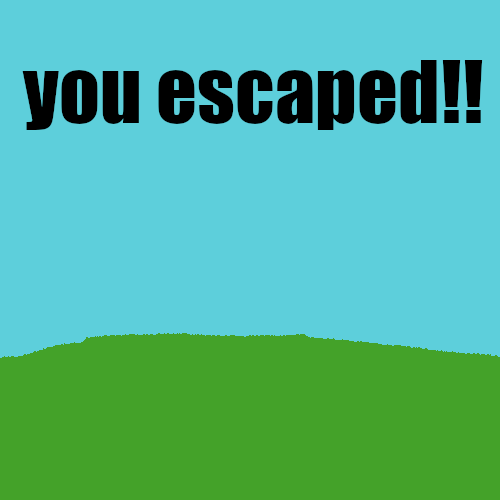
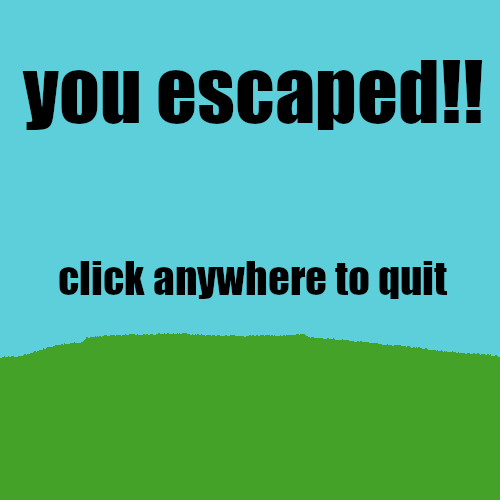
added intro and separated the setup from main.py

Changed region(s): [[0.12, 0.51, 0.9, 0.6]]

diff --git a/game.py b/game.py
@@ -1,148 +1,13 @@
 import pygame
 pygame.init()
 
-import Classes_and_functions
-from Classes_and_functions import room_list
-from Classes_and_functions import inventory
-from Classes_and_functions import bottom_text
+from game_setup import play_game
 
 pygame.mixer.init()
 pygame.mixer.music.load('labyrinth_escape.ogg')
-pygame.mixer.music.set_volume(0.5) # Ears will no longer bleed when the music starts
+pygame.mixer.music.set_volume(0.3) # Ears will no longer bleed when the music starts
 pygame.mixer.music.play(-1)  # Loops the music indefinitely
 
 
 
-screen = pygame.display.set_mode((500, 650))
-clock = pygame.time.Clock()
-running = True
-
-font = pygame.font.SysFont("Arial", 48)
-
-##Add Rooms##
-room1A = Classes_and_functions.Room('room1A','images/Room_1-A/room_1-A.png')
-room1B = Classes_and_functions.Room('room1B','images/Room_1-b/background.png')
-room2 = Classes_and_functions.Room('room2','images/Room 2/room_2.PNG')
-room3 = Classes_and_functions.Room('room3','images/room3/room_3.png')
-victory_room = Classes_and_functions.Room('victory','images/victory.png')
-
-##Add Items##
-basic_key = Classes_and_functions.Item('images/key.png','key')
-screwdriver = Classes_and_functions.Item('images/screwdriver.png', 'screwdriver')
-
-##Components of room1A##
-arrow_right_1A = Classes_and_functions.Door((464,15),'images/Room_1-A/arrowright.png','images/Room_1-A/arrowright.png',room1B,True)
-door1_1A = Classes_and_functions.Door((63,126),'images/Room_1-A/door1closed.png','images/Room_1-A/door1open.png',room2)
-door2_1A = Classes_and_functions.Door((466,168),'images/Room_1-A/door2closed.png','images/Room_1-A/door2open.png',victory_room)
-key_1A = Classes_and_functions.ClickableItem(basic_key,(220,303),'images/Room_1-A/key.png')
-lock_door1_1A = Classes_and_functions.ItemLock(basic_key,(144,276),(165,294),door1_1A)
-##Add Components##
-room1A.add_door(arrow_right_1A)
-room1A.add_door(door1_1A)
-room1A.add_door(door2_1A)
-room1A.add_object(key_1A)
-room1A.add_nonrender(lock_door1_1A)
-
-##Components of room1B##
-arrow_left_1B = Classes_and_functions.Door((0,18),'images/Room_1-B/arrow_away.PNG','images/Room_1-B/arrow_away.PNG',room1A,True)
-door_1B = Classes_and_functions.Door((0,161),'images/Room_1-B/door_closed.PNG','images/Room_1-B/door_open.PNG',victory_room)
-screwdriver_1B = Classes_and_functions.ClickableItem(screwdriver,(328,438),'images/Room_1-B/screwdriver.PNG')
-lock_1B = Classes_and_functions.NumberLock('images/Room_1-B/Escape Room lock.png',(76,285),(104,336),door_1B)
-toolbox_1B = Classes_and_functions.ClickableObject('a toolbox', 'Nothing looks useful.', (350, 375), (440, 460))
-##Add digits to lock##
-lock_1B.add_digit(5,(120,305),(105,265),(170,400))
-lock_1B.add_digit(9,(205,305),(180,265),(250,400))
-lock_1B.add_digit(6,(285,305),(260,265),(330,400))
-lock_1B.add_digit(3,(365,305),(335,265),(410,400))
-##Add Components##
-room1B.add_door(arrow_left_1B)
-room1B.add_door(door_1B)
-room1B.add_object(screwdriver_1B)
-room1B.add_lock(lock_1B)
-room1B.add_nonrender(toolbox_1B)
-
-##Components of room2##
-door1_2 = Classes_and_functions.Door((0,119),'images/Room 2/door1closed.PNG','images/Room 2/door1open.PNG',room3)
-door2_2 = Classes_and_functions.Door((419,130),'images/Room 2/door2open.PNG','images/Room 2/door2open.PNG',room1A,True)
-lock_2 = Classes_and_functions.NumberLock('images/Room 2/lock_enlarged.png',(85,290),(117,346),door1_2)
-greendice = Classes_and_functions.ClickableObject('a green die', 'It reads four',(174,311),(193,337))
-bluedice = Classes_and_functions.ClickableObject('a blue die', 'It reads six',(260,325),(279,350))
-purpledice = Classes_and_functions.ClickableObject('a purple die', 'It reads one',(339,264),(358,289))
-orangedice = Classes_and_functions.ClickableObject('a orange die', 'It reads three',(269,421),(288,446))
-##Add digits to lock##
-lock_2.add_digit(6,(125,310),(105,265),(170,400),6)
-lock_2.add_digit(3,(205,310),(180,265),(250,400),6)
-lock_2.add_digit(1,(285,310),(260,265),(330,400),6)
-lock_2.add_digit(4,(360,310),(335,265),(410,400),6)
-##Add Components##
-room2.add_door(door1_2)
-room2.add_door(door2_2)
-room2.add_lock(lock_2)
-room2.add_nonrender(greendice)
-room2.add_nonrender(bluedice)
-room2.add_nonrender(purpledice)
-room2.add_nonrender(orangedice)
-
-#Components of room3##
-arrow_down_3 = Classes_and_functions.Door((13,455),'images/room3/arrow_down.png','images/room3/arrow_down.png',room2,True)
-vent_3 = Classes_and_functions.Door((110,244),'images/room3/vent_cover.PNG','images/room3/empty_vent.png',room3, click_message='You can\'t open the vent right now')
-shelf_3 = Classes_and_functions.ClickableObject('a shelf','It\'s empty',(260,0),(500,440))
-##code_note_3 = Classes_and_functions.ClickableObject('a note','it reads \"5 9 6 3\"',(130,317),(194,355))
-vent_lock_check_3 = Classes_and_functions.ItemLock(screwdriver,(110,244),(238,391),vent_3)
-##Add Components##
-room3.add_door(arrow_down_3)
-room3.add_door(vent_3)
-room3.add_nonrender(shelf_3)
-room3.add_nonrender(vent_lock_check_3)
-
-
-##Add rooms to room list##
-room_list.add_room(victory_room)
-room_list.add_room(room1A)
-room_list.add_room(room1B)
-room_list.add_room(room2)
-room_list.add_room(room3)
-##Set starting room##
-room_list.change_room(room1A)
-
-
-while running:
-    
-    for event in pygame.event.get():
-        if event.type == pygame.QUIT:
-            running = False
-
-        #detects if mouse is hovering over lock when clicking, then shows lock, if it clicks the lock while displaying it, it hides the lock
-        if event.type == pygame.MOUSEBUTTONDOWN:
-            if event.button == 1:
-                room_list.click(event.pos)
-
-    mouse_position = pygame.mouse.get_pos()
-    
-    screen.fill("black") #wipes previous screen
-
-    #render game here
-    screen.blit(pygame.image.load("images/inventory.png").convert(), (0,500))
-    inventory.render_items()
-    bottom_text.render()
-
-    room_list.render()
-
-    room_list.cursor_render(mouse_position)
-
-
-
-
-
-
-    #----Displays Mouse Position----
-    ##MOUSE_POS_DEBUG = font.render(str(mouse_position), True, (0, 0, 0))
-    ##screen.blit(MOUSE_POS_DEBUG, (0,0))
-    #---Comment Out When Unneeded---
-
-
-    pygame.display.flip() #shows screen
-
-    clock.tick(60) #sets FPS to 60
-
-pygame.quit()
+play_game()

diff --git a/game_setup.py b/game_setup.py
@@ -1,0 +1,131 @@
+import pygame
+import Classes_and_functions
+from Classes_and_functions import room_list
+from Classes_and_functions import inventory
+from Classes_and_functions import bottom_text
+screen = pygame.display.set_mode((500, 650))
+clock = pygame.time.Clock()
+font = pygame.font.SysFont("Arial", 48)
+
+##Add Rooms##
+room1A = Classes_and_functions.Room('room1A','images/Room_1-A/room_1-A.png')
+room1B = Classes_and_functions.Room('room1B','images/Room_1-b/background.png')
+room2 = Classes_and_functions.Room('room2','images/Room 2/room_2.PNG')
+room3 = Classes_and_functions.Room('room3','images/room3/room_3.png')
+victory_room = Classes_and_functions.Room('victory','images/victory.png')
+
+intro_room = Classes_and_functions.Room('intro','images/intro.png')
+intro_door = Classes_and_functions.Door((0,0),'images/intro.png','images/intro.png',room1A,True)
+intro_room.add_door(intro_door)
+
+##Add Items##
+basic_key = Classes_and_functions.Item('images/key.png','key')
+screwdriver = Classes_and_functions.Item('images/screwdriver.png', 'screwdriver')
+
+##Components of room1A##
+arrow_right_1A = Classes_and_functions.Door((464,15),'images/Room_1-A/arrowright.png','images/Room_1-A/arrowright.png',room1B,True)
+door1_1A = Classes_and_functions.Door((63,126),'images/Room_1-A/door1closed.png','images/Room_1-A/door1open.png',room2)
+door2_1A = Classes_and_functions.Door((466,168),'images/Room_1-A/door2closed.png','images/Room_1-A/door2open.png',victory_room)
+key_1A = Classes_and_functions.ClickableItem(basic_key,(220,303),'images/Room_1-A/key.png')
+lock_door1_1A = Classes_and_functions.ItemLock(basic_key,(144,276),(165,294),door1_1A)
+##Add Components##
+room1A.add_door(arrow_right_1A)
+room1A.add_door(door1_1A)
+room1A.add_door(door2_1A)
+room1A.add_object(key_1A)
+room1A.add_nonrender(lock_door1_1A)
+
+##Components of room1B##
+arrow_left_1B = Classes_and_functions.Door((0,18),'images/Room_1-B/arrow_away.PNG','images/Room_1-B/arrow_away.PNG',room1A,True)
+door_1B = Classes_and_functions.Door((0,161),'images/Room_1-B/door_closed.PNG','images/Room_1-B/door_open.PNG',victory_room)
+screwdriver_1B = Classes_and_functions.ClickableItem(screwdriver,(328,438),'images/Room_1-B/screwdriver.PNG')
+lock_1B = Classes_and_functions.NumberLock('images/Room_1-B/Escape Room lock.png',(76,285),(104,336),door_1B)
+toolbox_1B = Classes_and_functions.ClickableObject('a toolbox', 'Nothing looks useful.', (350, 375), (440, 460))
+##Add digits to lock##
+lock_1B.add_digit(5,(120,305),(105,265),(170,400))
+lock_1B.add_digit(9,(205,305),(180,265),(250,400))
+lock_1B.add_digit(6,(285,305),(260,265),(330,400))
+lock_1B.add_digit(3,(365,305),(335,265),(410,400))
+##Add Components##
+room1B.add_door(arrow_left_1B)
+room1B.add_door(door_1B)
+room1B.add_object(screwdriver_1B)
+room1B.add_lock(lock_1B)
+room1B.add_nonrender(toolbox_1B)
+
+##Components of room2##
+door1_2 = Classes_and_functions.Door((0,119),'images/Room 2/door1closed.PNG','images/Room 2/door1open.PNG',room3)
+door2_2 = Classes_and_functions.Door((419,130),'images/Room 2/door2open.PNG','images/Room 2/door2open.PNG',room1A,True)
+lock_2 = Classes_and_functions.NumberLock('images/Room 2/lock_enlarged.png',(85,290),(117,346),door1_2)
+greendice = Classes_and_functions.ClickableObject('a green die', 'It reads four',(174,311),(193,337))
+bluedice = Classes_and_functions.ClickableObject('a blue die', 'It reads six',(260,325),(279,350))
+purpledice = Classes_and_functions.ClickableObject('a purple die', 'It reads one',(339,264),(358,289))
+orangedice = Classes_and_functions.ClickableObject('a orange die', 'It reads three',(269,421),(288,446))
+##Add digits to lock##
+lock_2.add_digit(6,(125,310),(105,265),(170,400),6)
+lock_2.add_digit(3,(205,310),(180,265),(250,400),6)
+lock_2.add_digit(1,(285,310),(260,265),(330,400),6)
+lock_2.add_digit(4,(360,310),(335,265),(410,400),6)
+##Add Components##
+room2.add_door(door1_2)
+room2.add_door(door2_2)
+room2.add_lock(lock_2)
+room2.add_nonrender(greendice)
+room2.add_nonrender(bluedice)
+room2.add_nonrender(purpledice)
+room2.add_nonrender(orangedice)
+
+#Components of room3##
+arrow_down_3 = Classes_and_functions.Door((13,455),'images/room3/arrow_down.png','images/room3/arrow_down.png',room2,True)
+vent_3 = Classes_and_functions.Door((110,244),'images/room3/vent_cover.PNG','images/room3/empty_vent.png',room3, click_message='You can\'t open the vent right now')
+shelf_3 = Classes_and_functions.ClickableObject('a shelf','It\'s empty',(260,0),(500,440))
+##code_note_3 = Classes_and_functions.ClickableObject('a note','it reads \"5 9 6 3\"',(130,317),(194,355))
+vent_lock_check_3 = Classes_and_functions.ItemLock(screwdriver,(110,244),(238,391),vent_3)
+##Add Components##
+room3.add_door(arrow_down_3)
+room3.add_door(vent_3)
+room3.add_nonrender(shelf_3)
+room3.add_nonrender(vent_lock_check_3)
+
+
+##Add rooms to room list##
+room_list.add_room(intro_room)
+room_list.add_room(victory_room)
+room_list.add_room(room1A)
+room_list.add_room(room1B)
+room_list.add_room(room2)
+room_list.add_room(room3)
+##Set starting room##
+room_list.change_room(intro_room)
+
+def play_game():
+    running = True
+    while running:
+        
+        for event in pygame.event.get():
+            if event.type == pygame.QUIT:
+                running = False
+
+            if event.type == pygame.MOUSEBUTTONDOWN:
+                if event.button == 1:
+                    if victory_room.active:
+                        pygame.quit()
+                    room_list.click(event.pos)
+
+        mouse_position = pygame.mouse.get_pos()
+        
+        screen.fill("black") #wipes previous screen
+
+        #render game here
+        screen.blit(pygame.image.load("images/inventory.png").convert(), (0,500))
+        inventory.render_items()
+        bottom_text.render()
+
+        room_list.render()
+
+        room_list.cursor_render(mouse_position)
+
+        pygame.display.flip() #shows screen
+
+        clock.tick(60)
+    pygame.quit()

diff --git a/Classes_and_functions.py b/Classes_and_functions.py
@@ -1,7 +1,6 @@
 import pygame
-screen = pygame.display.set_mode((500, 650))
 font = pygame.font.SysFont("Arial", 48)
-
+screen = pygame.display.set_mode((500, 650))
 #Classes and functions will be made here and imported into the pygame file to reduce clutter
 
 #function to check if something is within a box (Like a mouse click)